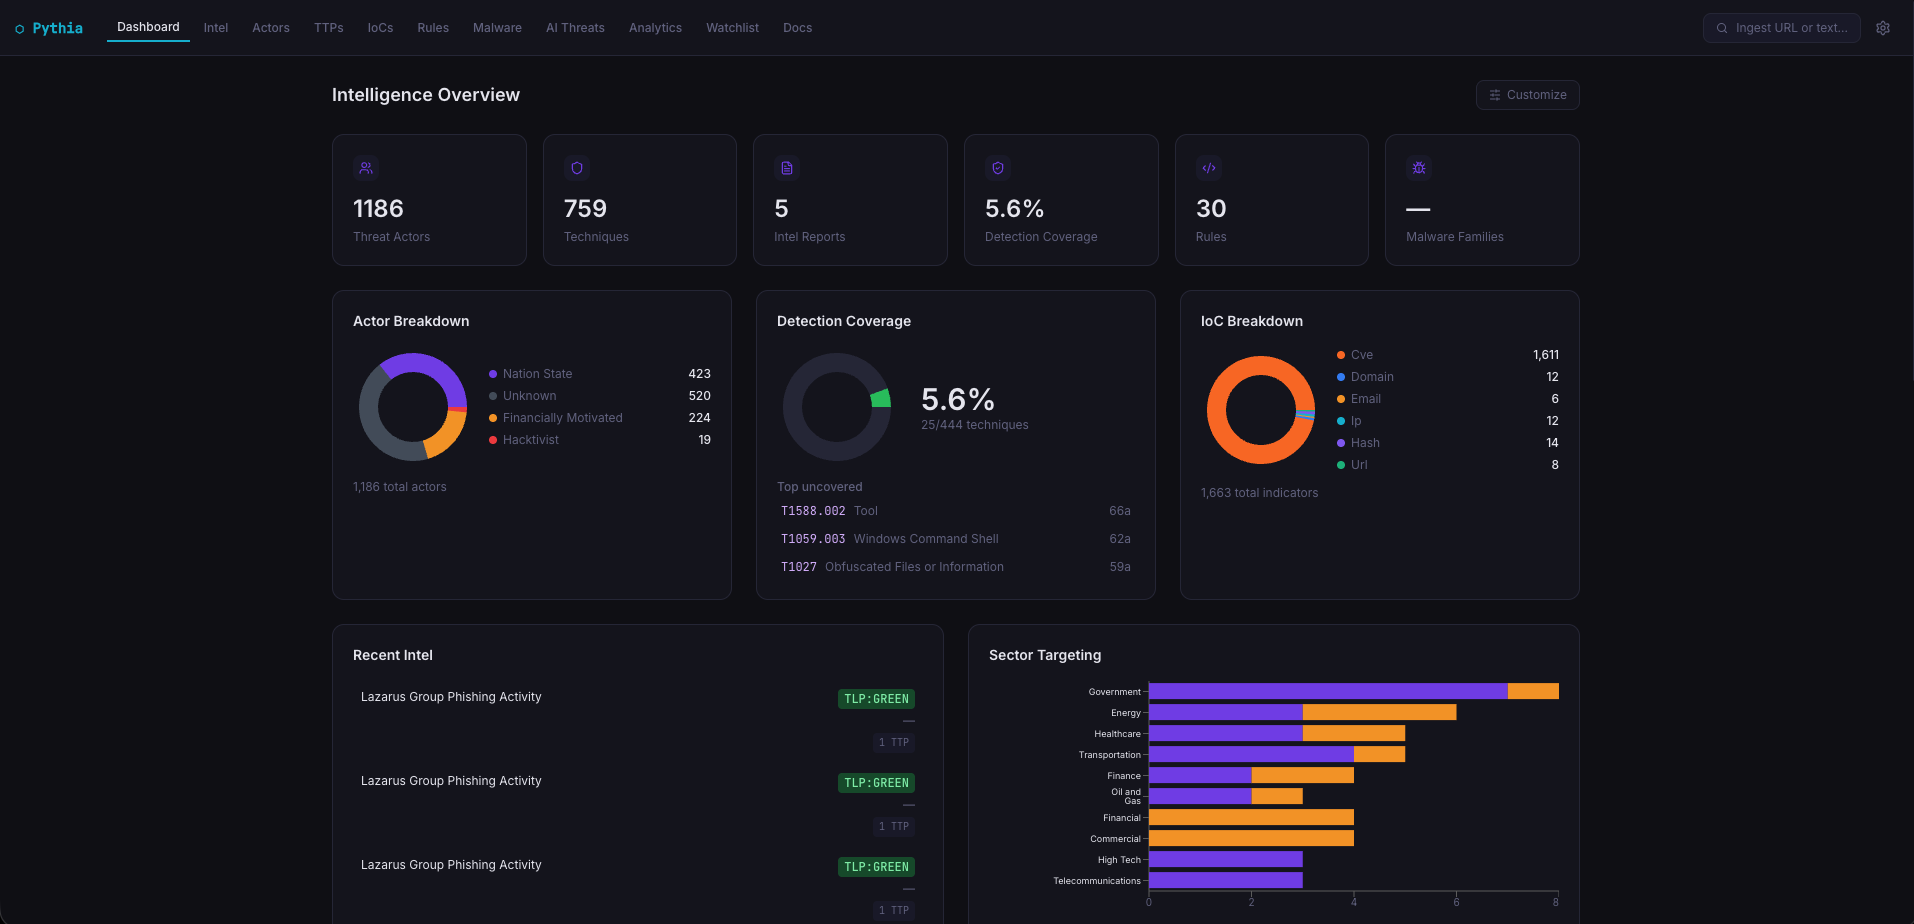
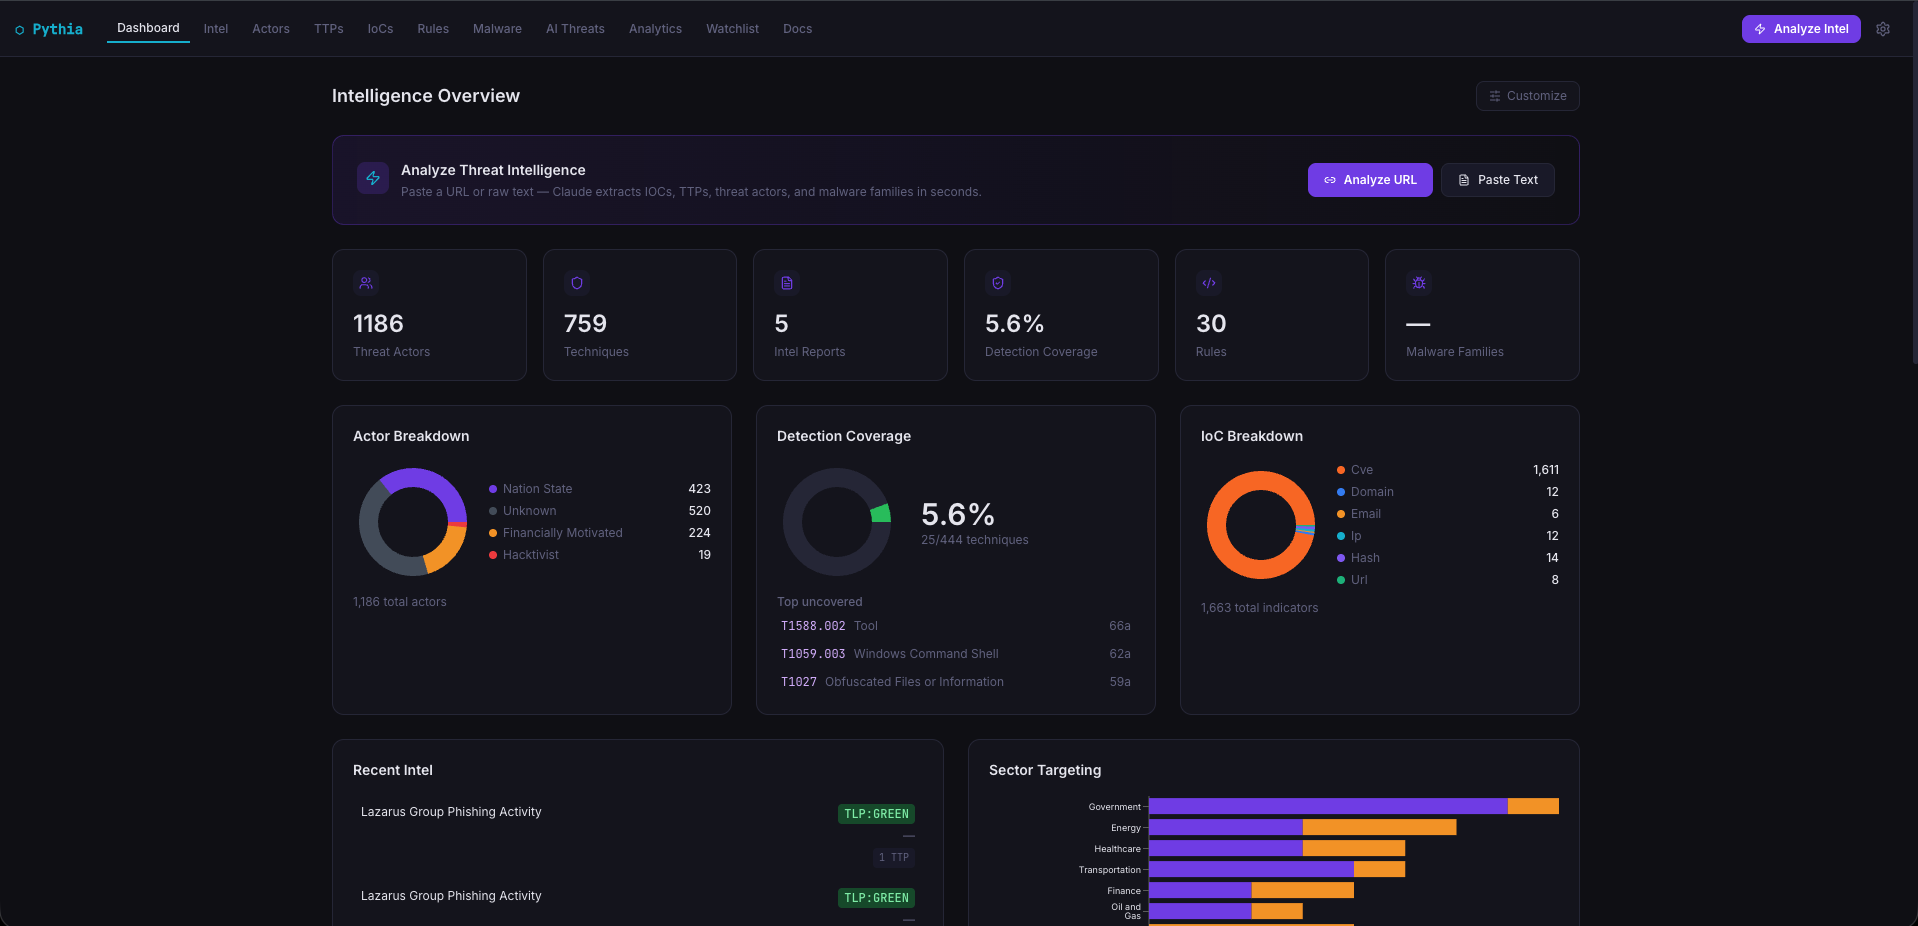
feat: promote AI ingest to a first-class UI entrypoint

diff --git a/frontend/src/pages/Dashboard.tsx b/frontend/src/pages/Dashboard.tsx
@@ -17,16 +17,19 @@ import {
   Eye,
   EyeOff,
   FileText,
+  Link2,
   Shield,
   ShieldCheck,
   SlidersHorizontal,
   Users,
+  Zap,
   type LucideIcon,
 } from 'lucide-react'
 import { useDashboardSummary, useCoverage, useGeographies, useSectors } from '@/api/analytics'
 import { useMalwareFamilies } from '@/api/malware'
 import { useSyncStatus } from '@/api/sync'
 import { useThreats } from '@/api/threats'
+import { IngestBar } from '@/components/shared/IngestBar'
 import { TlpBadge } from '@/components/shared/TlpBadge'
 import { timeAgo } from '@/lib/utils'
 
@@ -296,6 +299,13 @@ function CustomizePanel({
 export function Dashboard() {
   const [widgets, setWidgets] = useState<Record<WidgetKey, boolean>>(loadWidgets)
   const [showCustomize, setShowCustomize] = useState(false)
+  const [ingestOpen, setIngestOpen] = useState(false)
+  const [ingestTab, setIngestTab] = useState<'url' | 'text'>('url')
+
+  function openIngest(tab: 'url' | 'text') {
+    setIngestTab(tab)
+    setIngestOpen(true)
+  }
 
   const { data: threats } = useThreats({ limit: 5 })
   const { data: coverage } = useCoverage(3)
@@ -385,6 +395,39 @@ export function Dashboard() {
             onClose={() => setShowCustomize(false)}
           />
         )}
+      </div>
+
+      {/* Ingest hero */}
+      <div className="rounded-xl border border-accent/30 bg-gradient-to-r from-accent/10 via-accent/5 to-transparent p-6">
+        <div className="flex flex-col gap-4 sm:flex-row sm:items-center sm:justify-between">
+          <div className="flex items-start gap-3">
+            <div className="mt-0.5 rounded-lg bg-accent/20 p-2">
+              <Zap size={16} className="text-accent-bright" />
+            </div>
+            <div>
+              <h2 className="text-sm font-semibold text-text-primary">Analyze Threat Intelligence</h2>
+              <p className="mt-1 text-xs text-text-muted">
+                Paste a URL or raw text — Claude extracts IOCs, TTPs, threat actors, and malware families in seconds.
+              </p>
+            </div>
+          </div>
+          <div className="flex shrink-0 gap-2">
+            <button
+              onClick={() => openIngest('url')}
+              className="flex items-center gap-2 rounded-lg bg-accent px-4 py-2 text-xs font-semibold text-white hover:opacity-90 transition-opacity"
+            >
+              <Link2 size={12} />
+              Analyze URL
+            </button>
+            <button
+              onClick={() => openIngest('text')}
+              className="flex items-center gap-2 rounded-lg border border-[#2a2a3e] bg-bg-elevated px-4 py-2 text-xs font-medium text-text-primary hover:border-[#3a3a5e] hover:text-text-primary transition-colors"
+            >
+              <FileText size={12} />
+              Paste Text
+            </button>
+          </div>
+        </div>
       </div>
 
       {/* Stat cards */}
@@ -550,11 +593,15 @@ export function Dashboard() {
                   </Link>
                 </div>
               ) : (
-                <div className="flex flex-col items-center justify-center py-8 text-center">
+                <div className="flex flex-col items-center justify-center py-8 text-center gap-3">
                   <p className="text-xs text-text-muted">No intel reports yet.</p>
-                  <p className="mt-1 text-xs text-text-muted">
-                    Paste a URL to ingest your first intel report.
-                  </p>
+                  <button
+                    onClick={() => openIngest('url')}
+                    className="flex items-center gap-2 rounded-lg bg-accent px-4 py-2 text-xs font-semibold text-white hover:opacity-90 transition-opacity"
+                  >
+                    <Zap size={12} />
+                    Analyze your first report
+                  </button>
                 </div>
               )}
             </WidgetCard>
@@ -666,6 +713,8 @@ export function Dashboard() {
           </div>
         </WidgetCard>
       )}
+
+      <IngestBar open={ingestOpen} onClose={() => setIngestOpen(false)} defaultTab={ingestTab} />
     </div>
   )
 }

diff --git a/frontend/src/components/shared/IngestBar.tsx b/frontend/src/components/shared/IngestBar.tsx
@@ -1,4 +1,4 @@
-import { useState } from 'react'
+import { useEffect, useState } from 'react'
 import { useNavigate } from 'react-router-dom'
 import { X, Loader2, Lock } from 'lucide-react'
 import { useParse } from '@/api/parse'
@@ -8,12 +8,17 @@ import { ApiKeyModal } from '../settings/ApiKeyModal'
 interface Props {
   open: boolean
   onClose: () => void
+  defaultTab?: 'url' | 'text'
 }
 
-export function IngestBar({ open, onClose }: Props) {
+export function IngestBar({ open, onClose, defaultTab = 'url' }: Props) {
   const navigate = useNavigate()
   const { apiKey } = useApiKey()
-  const [tab, setTab] = useState<'url' | 'text'>('url')
+  const [tab, setTab] = useState<'url' | 'text'>(defaultTab)
+
+  useEffect(() => {
+    if (open) setTab(defaultTab)
+  }, [open, defaultTab])
   const [url, setUrl] = useState('')
   const [rawText, setRawText] = useState('')
   const [showKeyModal, setShowKeyModal] = useState(false)
@@ -42,12 +47,15 @@ export function IngestBar({ open, onClose }: Props) {
     <>
       <div className="fixed inset-0 z-40 bg-black/60" onClick={onClose} />
       <div className="fixed inset-x-4 top-16 z-50 mx-auto max-w-2xl rounded-xl border border-[#2a2a3e] bg-bg-surface p-5 shadow-2xl">
-        <div className="mb-4 flex items-center justify-between">
-          <h2 className="text-sm font-semibold text-text-primary">⬡ Ingest Intel</h2>
+        <div className="mb-1 flex items-center justify-between">
+          <h2 className="text-sm font-semibold text-text-primary">⬡ Analyze Threat Intelligence</h2>
           <button onClick={onClose} className="text-text-muted hover:text-text-primary">
             <X size={16} />
           </button>
         </div>
+        <p className="mb-4 text-xs text-text-muted">
+          Claude extracts IOCs, TTPs, threat actors, and malware families automatically.
+        </p>
 
         <div className="mb-3 flex gap-2">
           {(['url', 'text'] as const).map(t => (

diff --git a/frontend/src/components/layout/TopNav.tsx b/frontend/src/components/layout/TopNav.tsx
@@ -1,6 +1,6 @@
 import { useState } from 'react'
 import { NavLink } from 'react-router-dom'
-import { Search, Settings } from 'lucide-react'
+import { Settings, Zap } from 'lucide-react'
 import { cn } from '@/lib/utils'
 import { IngestBar } from '../shared/IngestBar'
 import { ApiKeyModal } from '../settings/ApiKeyModal'
@@ -54,10 +54,10 @@ export function TopNav() {
           <div className="ml-auto flex items-center gap-2">
             <button
               onClick={() => setIngestOpen(true)}
-              className="flex items-center gap-2 rounded-lg border border-[#2a2a3e] bg-bg-elevated px-3 py-1.5 text-xs text-text-muted hover:text-text-primary transition-colors"
+              className="flex items-center gap-2 rounded-lg bg-accent px-3 py-1.5 text-xs font-semibold text-white hover:opacity-90 transition-opacity"
             >
-              <Search size={12} />
-              <span className="hidden sm:inline">Ingest URL or text...</span>
+              <Zap size={12} />
+              <span className="hidden sm:inline">Analyze Intel</span>
             </button>
             <button
               onClick={() => setSettingsOpen(true)}